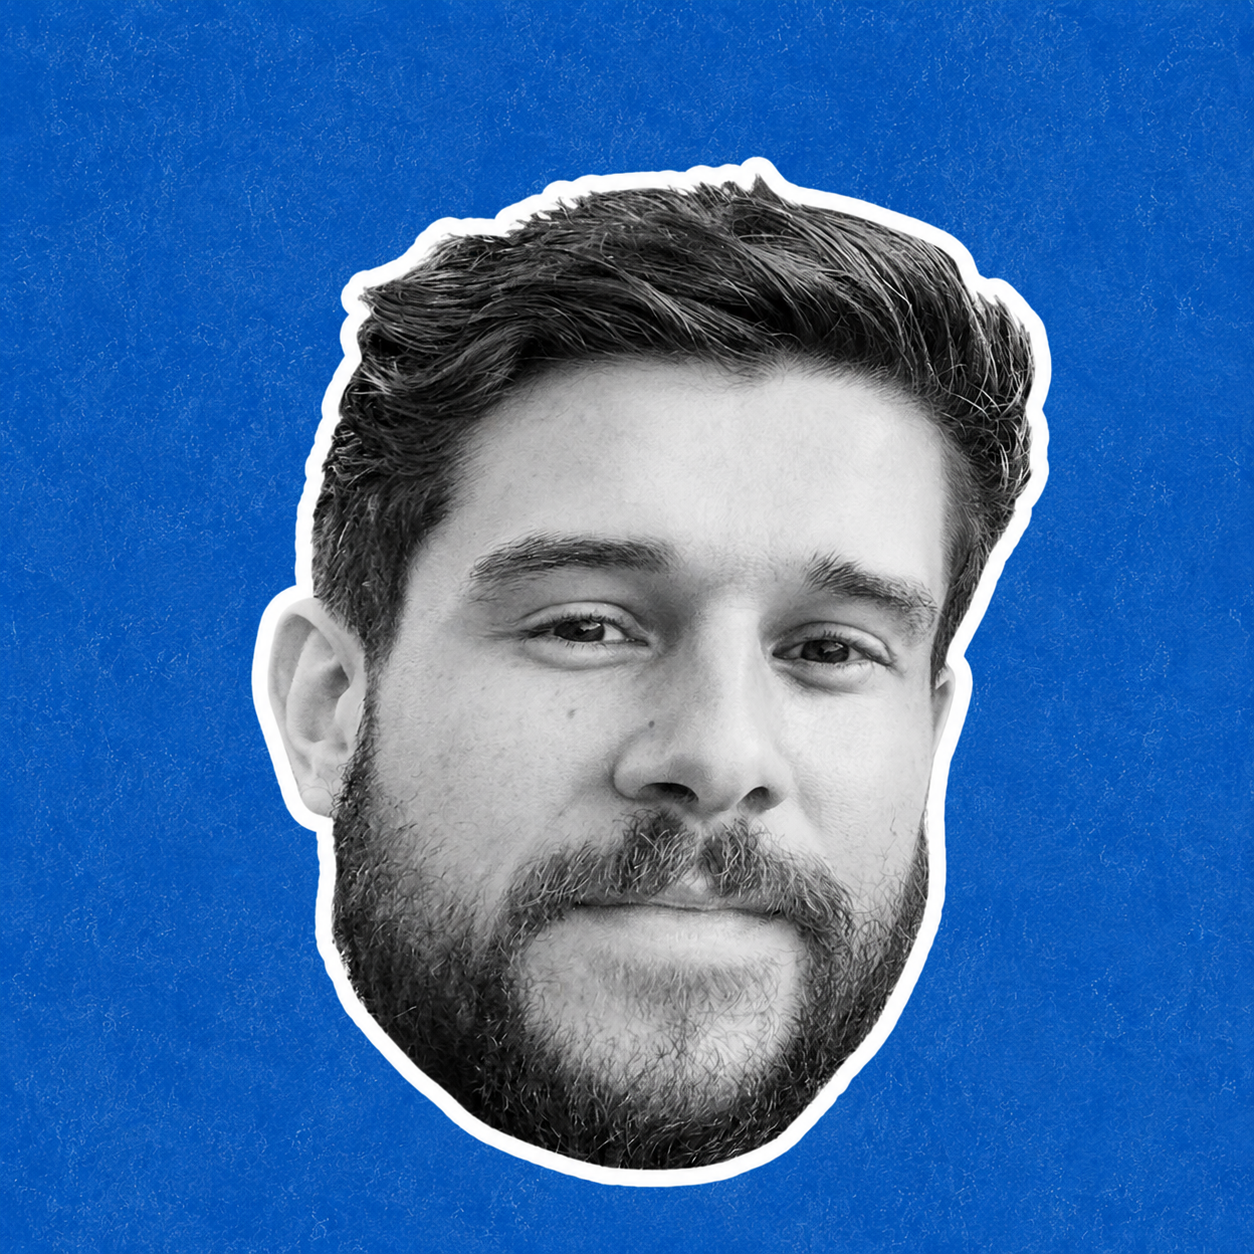
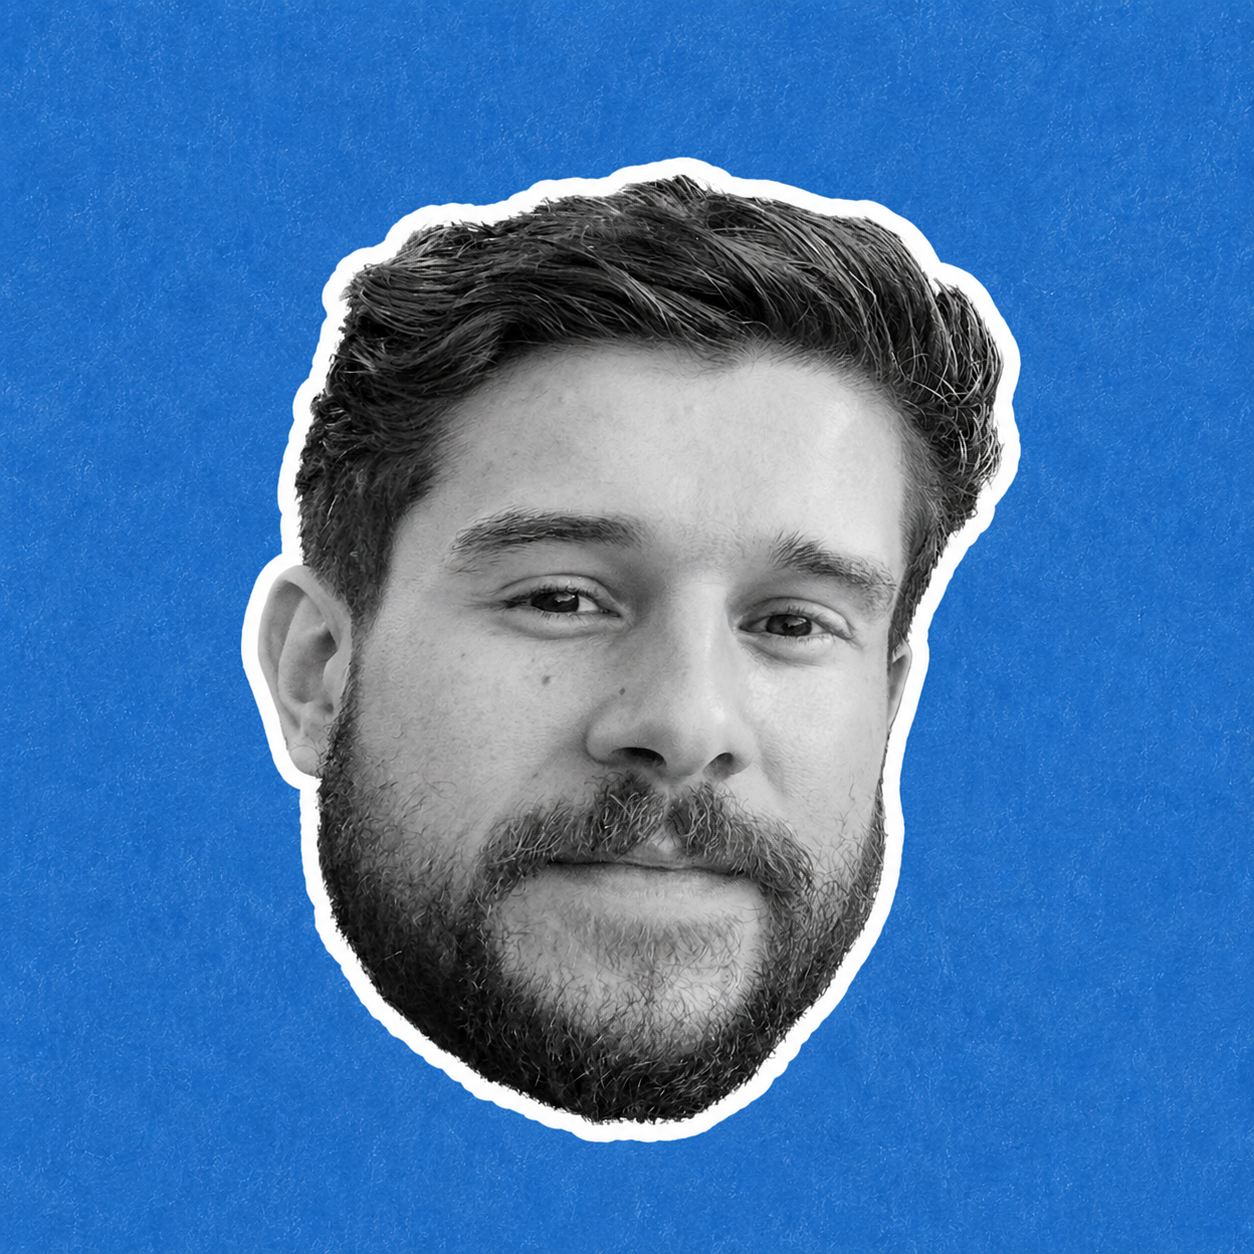
fix: things

diff --git a/views/layout_templ.go b/views/layout_templ.go
@@ -13,7 +13,7 @@ import (
 	"time"
 )
 
-const siteName = "Matt J. Stevenson"
+const siteName = "Matt Stevenson"
 const siteTagline = "I build schtuff."
 const baseURL = "https://mattjs.me"
 
@@ -85,14 +85,14 @@ func Layout(seo SEO) templ.Component {
 		if templ_7745c5c3_Err != nil {
 			return templ_7745c5c3_Err
 		}
-		templ_7745c5c3_Err = templruntime.WriteString(templ_7745c5c3_Buffer, 4, "\"><link rel=\"icon\" type=\"image/png\" href=\"/assets/image/matt.png\"><link rel=\"apple-touch-icon\" href=\"/assets/image/matt.png\"><link rel=\"alternate\" type=\"application/rss+xml\" title=\"")
+		templ_7745c5c3_Err = templruntime.WriteString(templ_7745c5c3_Buffer, 4, "\"><link rel=\"icon\" href=\"/assets/favicon.ico\" sizes=\"any\"><link rel=\"icon\" type=\"image/png\" sizes=\"32x32\" href=\"/assets/favicon-32x32.png\"><link rel=\"icon\" type=\"image/png\" sizes=\"16x16\" href=\"/assets/favicon-16x16.png\"><link rel=\"apple-touch-icon\" sizes=\"180x180\" href=\"/assets/apple-touch-icon.png\"><link rel=\"alternate\" type=\"application/rss+xml\" title=\"")
 		if templ_7745c5c3_Err != nil {
 			return templ_7745c5c3_Err
 		}
 		var templ_7745c5c3_Var5 string
 		templ_7745c5c3_Var5, templ_7745c5c3_Err = templ.ResolveAttributeValue(siteName)
 		if templ_7745c5c3_Err != nil {
-			return templ.Error{Err: templ_7745c5c3_Err, FileName: `views/layout.templ`, Line: 32, Col: 66}
+			return templ.Error{Err: templ_7745c5c3_Err, FileName: `views/layout.templ`, Line: 34, Col: 66}
 		}
 		_, templ_7745c5c3_Err = templ_7745c5c3_Buffer.WriteString(templ_7745c5c3_Var5)
 		if templ_7745c5c3_Err != nil {
@@ -105,7 +105,7 @@ func Layout(seo SEO) templ.Component {
 		var templ_7745c5c3_Var6 string
 		templ_7745c5c3_Var6, templ_7745c5c3_Err = templ.ResolveAttributeValue(pageTitle(seo.Title))
 		if templ_7745c5c3_Err != nil {
-			return templ.Error{Err: templ_7745c5c3_Err, FileName: `views/layout.templ`, Line: 33, Col: 57}
+			return templ.Error{Err: templ_7745c5c3_Err, FileName: `views/layout.templ`, Line: 35, Col: 57}
 		}
 		_, templ_7745c5c3_Err = templ_7745c5c3_Buffer.WriteString(templ_7745c5c3_Var6)
 		if templ_7745c5c3_Err != nil {
@@ -118,7 +118,7 @@ func Layout(seo SEO) templ.Component {
 		var templ_7745c5c3_Var7 string
 		templ_7745c5c3_Var7, templ_7745c5c3_Err = templ.ResolveAttributeValue(description(seo.Description))
 		if templ_7745c5c3_Err != nil {
-			return templ.Error{Err: templ_7745c5c3_Err, FileName: `views/layout.templ`, Line: 34, Col: 71}
+			return templ.Error{Err: templ_7745c5c3_Err, FileName: `views/layout.templ`, Line: 36, Col: 71}
 		}
 		_, templ_7745c5c3_Err = templ_7745c5c3_Buffer.WriteString(templ_7745c5c3_Var7)
 		if templ_7745c5c3_Err != nil {
@@ -131,7 +131,7 @@ func Layout(seo SEO) templ.Component {
 		var templ_7745c5c3_Var8 string
 		templ_7745c5c3_Var8, templ_7745c5c3_Err = templ.ResolveAttributeValue(baseURL + seo.Path)
 		if templ_7745c5c3_Err != nil {
-			return templ.Error{Err: templ_7745c5c3_Err, FileName: `views/layout.templ`, Line: 35, Col: 53}
+			return templ.Error{Err: templ_7745c5c3_Err, FileName: `views/layout.templ`, Line: 37, Col: 53}
 		}
 		_, templ_7745c5c3_Err = templ_7745c5c3_Buffer.WriteString(templ_7745c5c3_Var8)
 		if templ_7745c5c3_Err != nil {
@@ -144,7 +144,7 @@ func Layout(seo SEO) templ.Component {
 		var templ_7745c5c3_Var9 string
 		templ_7745c5c3_Var9, templ_7745c5c3_Err = templ.ResolveAttributeValue(ogType(seo.Article))
 		if templ_7745c5c3_Err != nil {
-			return templ.Error{Err: templ_7745c5c3_Err, FileName: `views/layout.templ`, Line: 36, Col: 55}
+			return templ.Error{Err: templ_7745c5c3_Err, FileName: `views/layout.templ`, Line: 38, Col: 55}
 		}
 		_, templ_7745c5c3_Err = templ_7745c5c3_Buffer.WriteString(templ_7745c5c3_Var9)
 		if templ_7745c5c3_Err != nil {
@@ -162,7 +162,7 @@ func Layout(seo SEO) templ.Component {
 			var templ_7745c5c3_Var10 string
 			templ_7745c5c3_Var10, templ_7745c5c3_Err = templ.ResolveAttributeValue(seo.Published.Format(time.RFC3339))
 			if templ_7745c5c3_Err != nil {
-				return templ.Error{Err: templ_7745c5c3_Err, FileName: `views/layout.templ`, Line: 38, Col: 85}
+				return templ.Error{Err: templ_7745c5c3_Err, FileName: `views/layout.templ`, Line: 40, Col: 85}
 			}
 			_, templ_7745c5c3_Err = templ_7745c5c3_Buffer.WriteString(templ_7745c5c3_Var10)
 			if templ_7745c5c3_Err != nil {

diff --git a/app_test.go b/app_test.go
@@ -19,7 +19,7 @@ func TestRoutes(t *testing.T) {
 		contains    string
 		contentType string
 	}{
-		{"/", http.StatusOK, "Matt J. Stevenson", "text/html"},
+		{"/", http.StatusOK, "Matt Stevenson", "text/html"},
 		{"/blog", http.StatusOK, "constraints and simplicity keep me focused on building.", "text/html"},
 		{"/blog/why-go", http.StatusOK, "The Thing About TypeScript", "text/html"},
 		{"/blog/tag/go", http.StatusOK, "#go", "text/html"},
@@ -28,6 +28,7 @@ func TestRoutes(t *testing.T) {
 		{"/sitemap.xml", http.StatusOK, "<urlset", "application/xml"},
 		{"/robots.txt", http.StatusOK, "Sitemap:", "text/plain"},
 		{"/assets/app.css", http.StatusOK, "--color-brand", "text/css"},
+		{"/assets/favicon.ico", http.StatusOK, "", "image/x-icon"},
 		{"/image/meme/go-ts-node.jpg", http.StatusOK, "", "image/jpeg"},
 	}
 	for _, tt := range tests {

diff --git a/app.go b/app.go
@@ -91,7 +91,7 @@ func rss(posts []*model.Post) string {
 	body.WriteString("<?xml version=\"1.0\" encoding=\"UTF-8\"?>\n")
 	body.WriteString("<rss version=\"2.0\" xmlns:atom=\"http://www.w3.org/2005/Atom\">\n")
 	body.WriteString("  <channel>\n")
-	body.WriteString("    <title>Matt J. Stevenson</title>\n")
+	body.WriteString("    <title>Matt Stevenson</title>\n")
 	body.WriteString("    <link>https://mattjs.me</link>\n")
 	body.WriteString("    <description>I build schtuff.</description>\n")
 	body.WriteString("    <language>en</language>\n")
